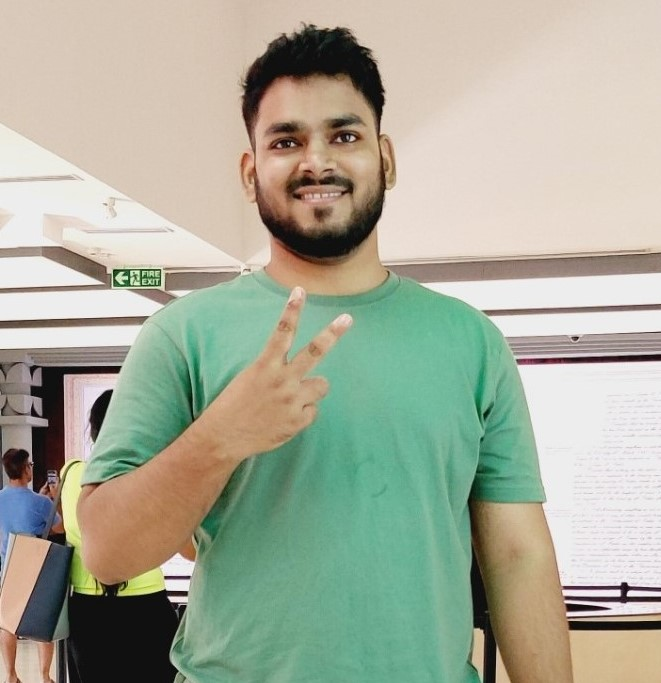
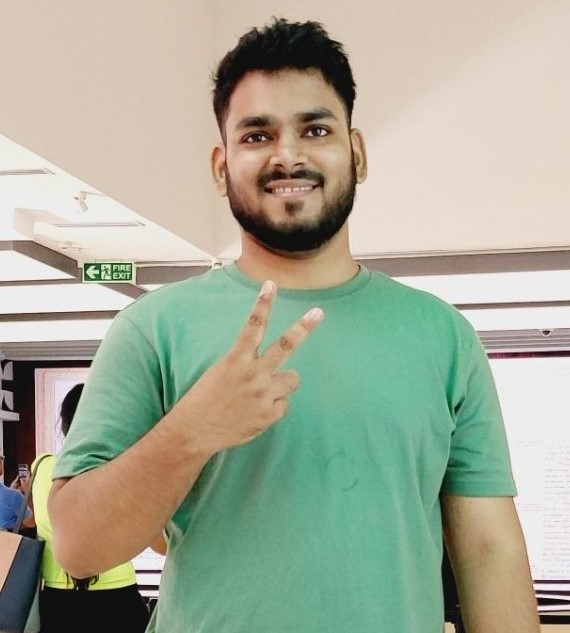
changes

diff --git a/src/app/_services/projects.service.ts b/src/app/_services/projects.service.ts
@@ -25,12 +25,22 @@ export class ProjectsService {
   }
 
   projects: project[] = [
-    { id: 0, name: "Angular Quiz", pictures: ["../../assets/quiz-1.png", "../../assets/quiz-2.png", "../../assets/quiz-3.png", "../../assets/quiz-4.png"], projectLink: "https://github.com/Nishant8826/QuizByAngular.git", liveLink: "https://angular-quiz-seven.vercel.app/welcome", summary: "Small Quiz Apllication developed in Angular 15 and Boostrap for UI", description: "9 Basic Questions that are based on Angualar Framework which can score you 10 points on each coorect answers with the time limit od 60 seconds.To make the quiz more interesting, 10 points will deduct from your total scores. In the end, you can view the score-card which will record Attempted questions, Correct, Wrong and Total Scores", tags: [Tag.ANGULAR, Tag.BOOTSTRAP, Tag.TYPESCRIPT] },
-    { id: 1, name: "To Do", pictures: ["../../assets/to-do.png"], projectLink: "https://github.com/Nishant8826/Angular-todo.git", liveLink: "https://angular-todo-nine.vercel.app/", summary: "TO DO list project build in Angular 15 and Boostrap for UI", description: "Tasks will store in Local Storage so that tasks won't get deleted when user reload the page, Task only can removed by the user.", tags: [Tag.ANGULAR, Tag.BOOTSTRAP, Tag.TYPESCRIPT] },
-    { id: 2, name: "Daily Goals", pictures: ["../../assets/daily-goals.png"], projectLink: "https://github.com/Nishant8826/reactProjects/tree/DailyGoals", liveLink: "https://react-daily-goals.vercel.app/", summary: "Project to Set your Goals in your Daily Task Bucket", description: "Goals will store in Local Storage so that goals won't get deleted when user reload the page, Task only can removed by the user.", tags: [Tag.REACT, Tag.CSS] },
-    { id: 3, name: "Techy Star", pictures: ["../../assets/techy-1.png", "../../assets/techy-2.png", "../../assets/techy-3.png", "../../assets/techy-4.png", "../../assets/techy-5.png"], projectLink: "https://github.com/Nishant8826/reactProjects/tree/techyStar", liveLink: "https://reactone-phi.vercel.app/", summary: "Sample Page For Displaying Core features of a Website.", description: "Website Page for displaying Home/about/contact/services page of an Organization. Some cool Animation and carousel are also embeded inside the page", tags: [Tag.REACT, Tag.CSS] },
-    { id: 4, name: "Vedio Hub", pictures: ["../../assets/vedio-hub-1.png", "../../assets/vedio-hub-2.png"], projectLink: "https://github.com/Nishant8826/reactProjects/tree/vedioHub", liveLink: "https://react-vedio-hub-anime.vercel.app/", summary: "To upload and Play some Vedios, A static Youtube.", description: "Vedios are being played in Vedio-Hub project.", tags: [Tag.REACT, Tag.CHAKRAUI] },
-    { id: 5, name: "Watsapp Clone", pictures: ["../../assets/w1.png", "../../assets/w2.png", "../../assets/w3.png", "../../assets/w4.png", "../../assets/w5.png", "../../assets/w6.png"], projectLink: "https://github.com/Nishant8826/watsapp_clone.git", liveLink: "https://watsapp-clone-client.vercel.app", summary: "WhatsApp clone enables secure messaging, calling, and media sharing instantly.", description: "This project, named 'Watsapp Clone', focuses on user chat system. It utilizes technologies such as React, Node.js, OAuth2 for authentication, Socket.IO for real-time communication, and Material-UI for the user interface", tags: [Tag.REACT, Tag.NODEJS, Tag.OAuth2, Tag.SOCKETIO, Tag.MATERIALUI,] }
+    {
+      id: 0,
+      name: "Code Reviewer",
+      pictures: ["../../assets/code-reviewer-1.png", "../../assets/code-reviewer-2.png"],
+      projectLink: "https://github.com/Nishant8826",
+      liveLink: "https://code-reviwer-client.vercel.app/",
+      summary: "AI-powered tool to automatically review and give feedback on code snippets.",
+      description: "Code Reviewer is a web-based tool built with React and Node.js that uses AI to analyze JavaScript code and provide real-time feedback or suggestions. Users can write or paste code in a live editor and receive syntax-highlighted reviews on demand. It features a clean UI, Markdown rendering for formatted responses, OAuth2 authentication, and real-time updates with Socket.IO. Ideal for learners or developers looking to get quick insights into their code.",
+      tags: [Tag.GeminiApi, Tag.REACT, Tag.NODEJS]
+    },
+    { id: 1, name: "Watsapp Clone", pictures: ["../../assets/w1.png", "../../assets/w2.png", "../../assets/w3.png", "../../assets/w4.png", "../../assets/w5.png", "../../assets/w6.png"], projectLink: "https://github.com/Nishant8826/watsapp_clone.git", liveLink: "https://watsapp-clone-client.vercel.app", summary: "WhatsApp clone enables secure messaging, calling, and media sharing instantly.", description: "This project, named 'Watsapp Clone', focuses on user chat system. It utilizes technologies such as React, Node.js, OAuth2 for authentication, Socket.IO for real-time communication, and Material-UI for the user interface", tags: [Tag.REACT, Tag.NODEJS, Tag.OAuth2, Tag.SOCKETIO, Tag.MATERIALUI,] },
+    { id: 2, name: "Angular Quiz", pictures: ["../../assets/quiz-1.png", "../../assets/quiz-2.png", "../../assets/quiz-3.png", "../../assets/quiz-4.png"], projectLink: "https://github.com/Nishant8826/QuizByAngular.git", liveLink: "https://angular-quiz-seven.vercel.app/welcome", summary: "Small Quiz Apllication developed in Angular 15 and Boostrap for UI", description: "9 Basic Questions that are based on Angualar Framework which can score you 10 points on each coorect answers with the time limit od 60 seconds.To make the quiz more interesting, 10 points will deduct from your total scores. In the end, you can view the score-card which will record Attempted questions, Correct, Wrong and Total Scores", tags: [Tag.ANGULAR, Tag.BOOTSTRAP, Tag.TYPESCRIPT] },
+    { id: 3, name: "To Do", pictures: ["../../assets/to-do.png"], projectLink: "https://github.com/Nishant8826/Angular-todo.git", liveLink: "https://angular-todo-nine.vercel.app/", summary: "TO DO list project build in Angular 15 and Boostrap for UI", description: "Tasks will store in Local Storage so that tasks won't get deleted when user reload the page, Task only can removed by the user.", tags: [Tag.ANGULAR, Tag.BOOTSTRAP, Tag.TYPESCRIPT] },
+    { id: 4, name: "Daily Goals", pictures: ["../../assets/daily-goals.png"], projectLink: "https://github.com/Nishant8826/reactProjects/tree/DailyGoals", liveLink: "https://react-daily-goals.vercel.app/", summary: "Project to Set your Goals in your Daily Task Bucket", description: "Goals will store in Local Storage so that goals won't get deleted when user reload the page, Task only can removed by the user.", tags: [Tag.REACT, Tag.CSS] },
+    { id: 5, name: "Techy Star", pictures: ["../../assets/techy-1.png", "../../assets/techy-2.png", "../../assets/techy-3.png", "../../assets/techy-4.png", "../../assets/techy-5.png"], projectLink: "https://github.com/Nishant8826/reactProjects/tree/techyStar", liveLink: "https://reactone-phi.vercel.app/", summary: "Sample Page For Displaying Core features of a Website.", description: "Website Page for displaying Home/about/contact/services page of an Organization. Some cool Animation and carousel are also embeded inside the page", tags: [Tag.REACT, Tag.CSS] },
+    { id: 6, name: "Vedio Hub", pictures: ["../../assets/vedio-hub-1.png", "../../assets/vedio-hub-2.png"], projectLink: "https://github.com/Nishant8826/reactProjects/tree/vedioHub", liveLink: "https://react-vedio-hub-anime.vercel.app/", summary: "To upload and Play some Vedios, A static Youtube.", description: "Vedios are being played in Vedio-Hub project.", tags: [Tag.REACT, Tag.CHAKRAUI] }
   ];
 
   getProjects() {

diff --git a/src/app/_models/tag.ts b/src/app/_models/tag.ts
@@ -1,24 +1,22 @@
 export class Tag {
-    static readonly ANGULAR = new Tag('Angular', 'red');
-    static readonly REACT = new Tag('React', 'blue');
-    static readonly CHAKRAUI = new Tag('Chakra-UI', 'purple');
-    static readonly CSS = new Tag('CSS', 'pink');
-    static readonly NODEJS = new Tag('Nodejs', 'brown');
-    static readonly BOOTSTRAP = new Tag('Bootstrap', 'purple');
-    static readonly TYPESCRIPT = new Tag('Typescript', 'green');
-    static readonly JAVASCRIPT = new Tag('Javascript', 'gray');
-    static readonly HTML = new Tag('HTML', 'purple');
-    static readonly PYTHON = new Tag('Python', 'pink');
-    static readonly MATERIALUI = new Tag('Material_ui', '#1E85EB');
-    static readonly SOCKETIO = new Tag('Socket.IO', '#21AF90');
-    static readonly OAuth2 = new Tag('Google Auth', '#DF8382');
+    static readonly ANGULAR = new Tag('Angular', '#DD0031'); // Angular red
+    static readonly REACT = new Tag('React', '#61DAFB'); // React blue
+    static readonly CHAKRAUI = new Tag('Chakra-UI', '#319795'); // Chakra teal
+    static readonly CSS = new Tag('CSS', '#264de4'); // CSS blue
+    static readonly NODEJS = new Tag('Nodejs', '#68A063'); // Node green
+    static readonly BOOTSTRAP = new Tag('Bootstrap', '#7952B3'); // Bootstrap purple
+    static readonly TYPESCRIPT = new Tag('Typescript', '#3178C6'); // TypeScript blue
+    static readonly JAVASCRIPT = new Tag('Javascript', '#F7DF1E'); // JS yellow
+    static readonly HTML = new Tag('HTML', '#E34F26'); // HTML orange-red
+    static readonly PYTHON = new Tag('Python', '#3776AB'); // Python blue
+    static readonly MATERIALUI = new Tag('Material UI', '#007FFF'); // Material UI blue
+    static readonly SOCKETIO = new Tag('Socket.IO', '#010101'); // Socket.io black
+    static readonly OAuth2 = new Tag('Google Auth', '#4285F4'); // Google blue
+    static readonly GeminiApi = new Tag('AI', '#673AB7'); // Gemini-like purple
 
-    constructor(private readonly key: string, public readonly color: string) {
-
-    }
+    constructor(private readonly key: string, public readonly color: string) { }
 
     toString() {
         return this.key;
     }
-
 }

diff --git a/src/app/component/home/home.component.scss b/src/app/component/home/home.component.scss
@@ -1,34 +1,57 @@
+.col-lg.shadow.border.m-1 {
+  max-height: 420px;
+  overflow-y: auto;
+  overflow-x: auto;
+  border-radius: 10px;
+}
+
+.scrollable-horizontal {
+  max-width: 100%;
+  overflow-x: auto;
+  white-space: nowrap;
+}
+
+
 .btn-group .btn {
   border-radius: 30px;
-  padding: 0.5rem 1.5rem;
+  padding: 0.5rem 1.4rem;
   font-weight: 600;
-  font-size: 1rem;
-  color: #444;
-  background-color: #e9ecef;
+  font-size: 0.95rem;
+  color: #333;
+  background-color: #fff;
   border: 1px solid #ddd;
-  transition: background-color 0.3s ease, color 0.3s ease, box-shadow 0.3s ease;
   margin: 0 0.3rem;
   min-width: 110px;
   cursor: pointer;
-}
-
-.btn-group .btn:hover {
-  background-color: #d0e2ff;
-  color: #0056b3;
+  position: relative;
+  overflow: hidden;
+  transition: all 0.35s ease;
+  z-index: 1;
+  box-shadow: 0 2px 6px rgba(0, 0, 0, 0.05);
 }
 
 .btn-group .btn:focus {
   outline: none;
-  box-shadow: 0 0 0 0.2rem rgba(0, 123, 255, 0.5);
+  box-shadow: 0 0 0 0.25rem rgba(49, 49, 49, 0.35);
+}
+
+.btn-group .btn::before {
+  content: none;
+}
+
+.btn-group .btn:hover {
+  color: #000;
+  box-shadow: 0 6px 18px rgba(234, 234, 234, 0.25);
+  border-color: #dadada;
 }
 
 .btn-group .btn.active {
-  background-color: #007bff !important;
-  color: white !important;
-  box-shadow: 0 4px 12px rgba(0, 123, 255, 0.6);
-  border-color: #007bff !important;
+  background: rgba(233, 236, 239, 0.95);
+  color: #000;
+  box-shadow: 0 6px 20px rgba(0, 0, 0, 0.08);
+  border-color: #cfd8dc;
+  backdrop-filter: blur(4px);
 }
-
 
 .skill-card {
   padding: 1rem !important;
@@ -48,11 +71,7 @@
   transition: font-size 0.3s ease;
 }
 
-.btn-group .btn {
-  padding: 0.4rem 1.2rem;
-  font-size: 0.9rem;
-  min-width: 90px;
-}
+
 
 @media (max-width: 576px) {
   .skill-card i.fa-2x {
@@ -78,12 +97,6 @@
   }
 }
 
-.btn-group .btn.active {
-  background-color: #007bff !important;
-  color: white !important;
-  box-shadow: 0 0 8px rgba(0, 123, 255, 0.7);
-  border-color: #007bff !important;
-}
 
 @media (max-width: 576px) {
   .skill-card {

diff --git a/src/app/component/portfolio/portfolio.component.html b/src/app/component/portfolio/portfolio.component.html
@@ -2,14 +2,21 @@
 
     <div class="mb-2">
         <div>
-            <button class="btn btn-outline-primary mt-2 mb-2 me-2" (click)="isCollapsed =!isCollapsed">Filter</button>
-            <button class="btn btn-outline-secondary mt-2 mb-2" (click)="resetFilter()"
+            <button class="btn btn-outline-secondary mt-2 mb-2 me-2" (click)="isCollapsed =!isCollapsed">Filter</button>
+            <button class="btn btn-outline-danger mt-2 mb-2" (click)="resetFilter()"
                 [hidden]="!filtering">Reset</button>
         </div>
         <div [collapse]="isCollapsed" [isAnimated]="true">
             <form>
                 <div class="form-group overflow-auto">
                     <div class="row" style="width: 100%;">
+                        <div class="col-6 col-md-4 col-lg-3 col-xl-2">
+                            <div class="form-check">
+                                <input type="checkbox" class="form-check-input" (change)="filter()" [(ngModel)]="genAI"
+                                    name="AI">
+                                <label class="form-check-label small">AI</label>
+                            </div>
+                        </div>
                         <div class="col-6 col-md-4 col-lg-3 col-xl-2">
                             <div class="form-check">
                                 <input type="checkbox" class="form-check-input" (change)="filter()" [(ngModel)]="nodejs"
@@ -74,8 +81,7 @@
     </div>
 
     <div class="row">
-        <div *ngFor="let project of projects" class="col-lg-4 col-md-6 mb-2 mt-2"
-            style="max-width: 380px;min-width: 380px;">
+        <div *ngFor="let project of projects" class="col-lg-4 col-md-6 mb-2 mt-2 project-card-wrapper">
             <app-project-cards [project]="project"></app-project-cards>
         </div>
     </div>

diff --git a/src/app/component/home/home.component.html b/src/app/component/home/home.component.html
@@ -3,8 +3,8 @@
         <!-- About Me -->
         <div class="col-lg shadow border m-1">
             <div class="text-center">
-                <div class="mb-4"></div>
-                <img src="../../../assets/my-pic.jpg" alt="" height="256px" class="rounded-circle fade-in" />
+                <div class="mb-3"></div>
+                <img src="../../../assets/my-pic.jpg" alt="" height="240px" class="rounded-circle fade-in" />
 
                 <p style="margin: 1rem 0; font-size: 14px;font-weight: 600;">
                     Passionate Full Stack Developer with expertise in MEAN/MERN stack, creating innovative web solutions
@@ -21,7 +21,7 @@
         <!-- Skills -->
         <div class="col-lg shadow border m-1">
             <div class="text-center">
-                <div class="mb-4"></div>
+                <div class="mb-2"></div>
 
                 <!-- Buttons -->
                 <div class="btn-group mb-3" role="group" aria-label="Skill categories">
@@ -40,7 +40,8 @@
                 </div>
 
 
-                <div class="row row-cols-1 row-cols-sm-2 row-cols-md-3 row-cols-lg-3 g-3 justify-content-center px-3">
+                <div
+                    class="row row-cols-1 row-cols-sm-2 row-cols-md-3 row-cols-lg-3 g-3 justify-content-center px-3 mb-1 scrollable-horizontal">
                     <div class="col" *ngFor="let skill of filteredSkills">
                         <div class="card skill-card text-center p-3">
                             <i [class]="skill.icon + ' fa-2x mb-2'" [ngClass]="skill.color"></i>

diff --git a/src/app/component/portfolio/portfolio.component.scss b/src/app/component/portfolio/portfolio.component.scss
@@ -1,4 +1,37 @@
 .overflow-auto {
-    overflow-x: auto; /* Horizontal scrolling */
-    white-space: nowrap; /* Prevent wrapping */
+    overflow-x: auto;
+    white-space: nowrap;
+}
+
+.project-card-wrapper {
+    transition: transform 0.3s ease, box-shadow 0.3s ease;
+    border-radius: 16px;
+    overflow: visible;
+    position: relative;
+    z-index: 0;
+}
+
+.project-card-wrapper:hover {
+    transform: translateY(-6px) scale(1.02);
+    box-shadow: 0 8px 24px rgba(0, 0, 0, 0.15);
+    z-index: 2;
+}
+
+.project-card-wrapper::before {
+    content: "";
+    position: absolute;
+    top: 0;
+    left: 0;
+    width: 100%;
+    height: 100%;
+    background: linear-gradient(135deg, rgba(255, 255, 255, 0.05), rgba(0, 123, 255, 0.08));
+    opacity: 0;
+    transition: opacity 0.3s ease;
+    border-radius: 16px;
+    pointer-events: none;
+    z-index: -1;
+}
+
+.project-card-wrapper:hover::before {
+    opacity: 1;
 }

diff --git a/src/app/component/portfolio/portfolio.component.ts b/src/app/component/portfolio/portfolio.component.ts
@@ -24,6 +24,7 @@ export class PortfolioComponent implements OnInit {
   socket: boolean = false;
   googleAuth: boolean = false;
   materialUI: boolean = false;
+  genAI: boolean = false;
 
   constructor(private titleService: Title, private projectService: ProjectsService) {
     this.titleService.setTitle('Portfolio');
@@ -62,6 +63,9 @@ export class PortfolioComponent implements OnInit {
     }
     if (this.materialUI) {
       filterTags.push(Tag.MATERIALUI);
+    }
+    if (this.genAI) {
+      filterTags.push(Tag.GeminiApi);
     }
 
     this.projects = this.projectService.GetProjectsByFilter(filterTags);

diff --git a/src/app/component/home/home.component.ts b/src/app/component/home/home.component.ts
@@ -32,6 +32,7 @@ export class HomeComponent {
     { name: 'REST APIs', icon: 'fas fa-plug', color: 'text-dark', category: 'backend' },
 
     // Other
+    { name: 'AI', icon: 'fas fa-robot', color: 'text-info', category: 'other' },
     { name: 'Git', icon: 'fab fa-git-alt', color: 'text-danger', category: 'other' },
     { name: 'Mercurial', icon: 'fas fa-code-branch', color: 'text-danger', category: 'other' },
     { name: 'Figma', icon: 'fab fa-figma', color: 'text-primary', category: 'other' },
